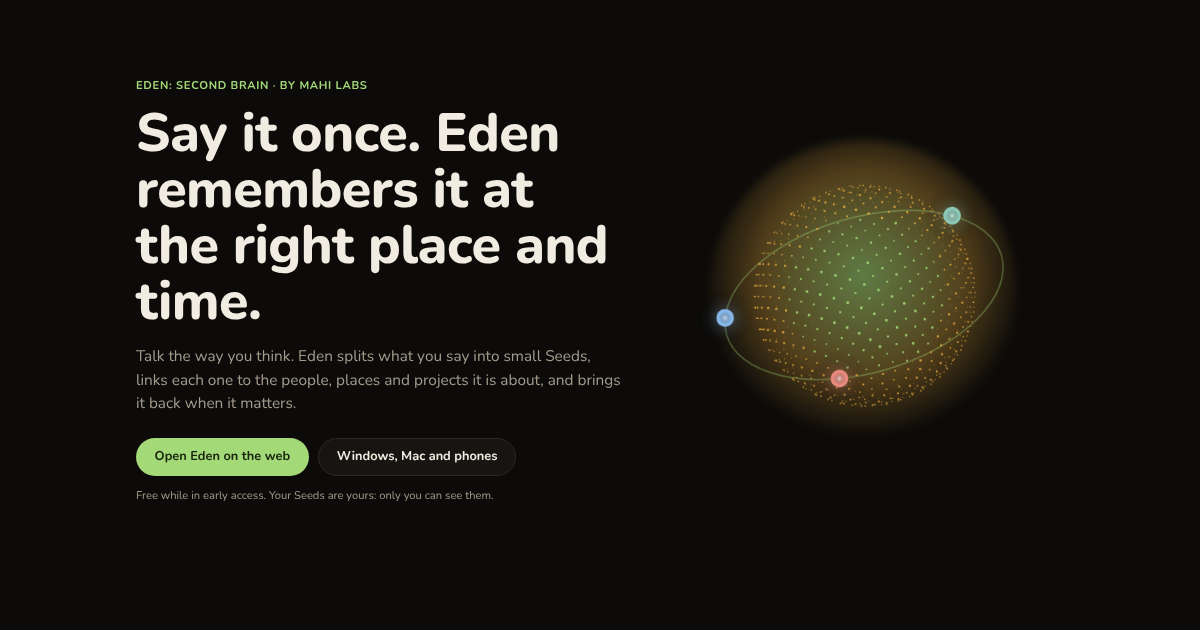
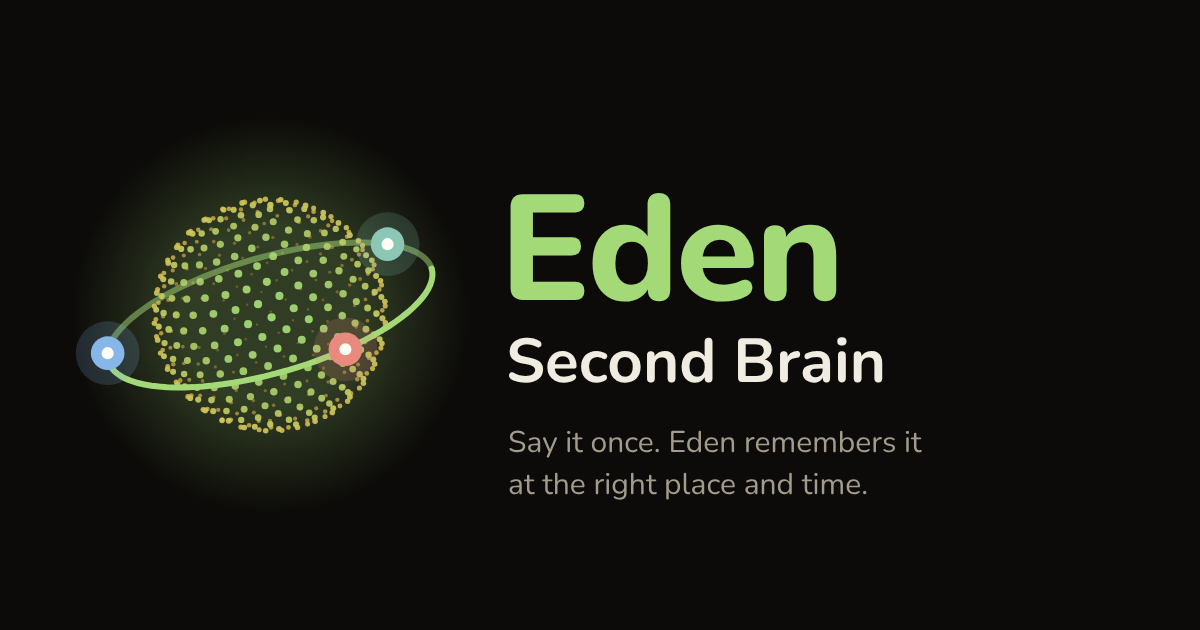
Publish Eden's public pages from Sandy360k/EDEN@4ae1498

Changed region(s): [[0.0617, 0.181, 0.8633, 0.7841], [0.1233, 0.7841, 0.4008, 0.8143], [0.1233, 0.1206, 0.3083, 0.1508]]

diff --git a/index.html b/index.html
@@ -26,6 +26,7 @@
     --bg: #F7F4EE; --surface: #FFFDF8; --surface2: #EFEAE0; --border: #E4DDD0; --text: #1F1B14; --muted: #6E665A;
     --accent: #3F7524; --on-accent: #FFFFFF; --gold: #C98A0E; --green: #4E8A2E;
     --work: #2F8F7A; --home: #C98A0E; --family: #C2553F; --health: #7A5FC4;
+    --glow-far: #C98A0E; --glow-near: #4E8A2E; --glow-ideas: #3B7FC4; --glow-work: #2F8F7A; --glow-family: #C2553F;
     --round: "Nunito", ui-rounded, "SF Pro Rounded", system-ui, sans-serif;
     --sans: var(--round);
     color-scheme: light dark;
@@ -35,6 +36,7 @@
       --bg: #0C0B09; --surface: #171512; --surface2: #221F1A; --border: #2C2821; --text: #F1ECE2; --muted: #A39B8C;
       --accent: #A3D977; --on-accent: #18240E; --gold: #F2B544; --green: #A3D977;
       --work: #8CC7B5; --home: #F2B544; --family: #E88A7D; --health: #B9A6E8;
+      --glow-far: #F2B544; --glow-near: #A3D977; --glow-ideas: #86B7E8; --glow-work: #8CC7B5; --glow-family: #E88A7D;
     }
   }
   * { box-sizing: border-box; }
@@ -48,8 +50,8 @@
 
   header { position: sticky; top: 0; z-index: 2; background: color-mix(in srgb, var(--bg) 88%, transparent); backdrop-filter: blur(10px); border-bottom: 1px solid color-mix(in srgb, var(--border) 60%, transparent); }
   .bar { display: flex; align-items: center; gap: 24px; min-height: 64px; }
-  .brand { display: flex; align-items: center; gap: 10px; font-weight: 800; font-size: 22px; color: var(--text); text-decoration: none; }
-  .mark { width: 28px; height: 28px; border-radius: 50%; background: radial-gradient(circle at 50% 42%, var(--green) 0 28%, var(--gold) 62%, transparent 72%); }
+  .brand { display: flex; align-items: center; gap: 8px; font-weight: 800; font-size: 22px; color: var(--text); text-decoration: none; }
+  .mark { width: 34px; height: 34px; flex: none; display: block; }
   nav { display: flex; gap: 20px; margin-left: auto; }
   nav a { color: var(--muted); text-decoration: none; font-size: 15px; font-weight: 600; }
   nav a:hover { color: var(--text); }
@@ -101,7 +103,7 @@
   .chip .dot { width: 8px; height: 8px; border: 0; background: currentColor; }
   .ping { display: flex; gap: 10px; align-items: flex-start; padding: 10px 12px; border-radius: 14px; background: var(--surface); border: 1px solid var(--border); font-size: 14px; }
   .ping b { display: block; font-size: 12px; color: var(--muted); font-weight: 600; }
-  .ping .mark { width: 22px; height: 22px; flex: none; }
+  .ping .mark { width: 26px; height: 26px; }
   @media (max-width: 960px) { .steps { grid-template-columns: repeat(2, 1fr); } .step:nth-child(2)::after { display: none; } }
   @media (max-width: 600px) { .steps { grid-template-columns: 1fr; } .step::after { top: auto; bottom: -13px; right: 50%; transform: translateX(50%) rotate(135deg); } .step:nth-child(2)::after { display: block; } }
 
@@ -161,7 +163,7 @@
 <body>
 <header>
   <div class="wrap bar">
-    <a class="brand" href="./" aria-label="Eden home"><span class="mark" aria-hidden="true"></span>Eden</a>
+    <a class="brand" href="./" aria-label="Eden home"><svg class="mark" viewBox="0 0 100 100" aria-hidden="true"><defs><radialGradient id="hsite" cx="50%" cy="50%" r="50%"><stop offset="0.45" stop-color="var(--glow-near)" stop-opacity="0.14"/><stop offset="1" stop-color="var(--glow-near)" stop-opacity="0"/></radialGradient><radialGradient id="wsite" cx="42%" cy="40%" r="62%"><stop offset="0" stop-color="var(--glow-near)"/><stop offset="1" stop-color="var(--glow-far)"/></radialGradient></defs><path d="M8.28 61.96 L8.08 60.92 L8.06 59.84 L8.22 58.71 L8.55 57.54 L9.07 56.35 L9.76 55.12 L10.62 53.88 L11.65 52.61 L12.84 51.34 L14.20 50.06 L15.70 48.78 L17.36 47.50 L19.15 46.24 L21.08 44.99 L23.13 43.76 L25.29 42.56 L27.56 41.39 L29.93 40.26 L32.38 39.17 L34.91 38.13 L37.50 37.14 L40.15 36.20 L42.84 35.32 L45.56 34.50 L48.29 33.76 L51.04 33.08 L53.78 32.47 L56.51 31.94 L59.20 31.48 L61.86 31.11 L64.47 30.81 L67.01 30.60 L69.48 30.47 L71.87 30.42 L74.17 30.46 L76.36 30.58 L78.44 30.79 L80.39 31.08 L82.22 31.44 L83.91 31.89 L85.45 32.42 L86.84 33.02 L88.08 33.69 L89.15 34.43 L90.05 35.24 L90.78 36.12 L91.34 37.05 L91.72 38.04" fill="none" stroke="var(--glow-near)" stroke-opacity="0.6" stroke-width="3.2" stroke-linecap="round"/><circle cx="50" cy="50" r="49.5" fill="url(#hsite)"/><circle cx="50" cy="50" r="31" fill="url(#wsite)" fill-opacity="0.14"/><circle cx="72.41" cy="59.09" r="1.67" fill="color-mix(in srgb, var(--glow-near) 38%, var(--glow-far))" fill-opacity="1.00"/><circle cx="38.73" cy="28.63" r="1.70" fill="color-mix(in srgb, var(--glow-near) 40%, var(--glow-far))" fill-opacity="1.00"/><circle cx="31.67" cy="34.32" r="1.72" fill="color-mix(in srgb, var(--glow-near) 42%, var(--glow-far))" fill-opacity="1.00"/><circle cx="58.48" cy="72.45" r="1.77" fill="color-mix(in srgb, var(--glow-near) 45%, var(--glow-far))" fill-opacity="1.00"/><circle cx="26.58" cy="54.69" r="1.80" fill="color-mix(in srgb, var(--glow-near) 46%, var(--glow-far))" fill-opacity="1.00"/><circle cx="28.12" cy="41.59" r="1.88" fill="color-mix(in srgb, var(--glow-near) 52%, var(--glow-far))" fill-opacity="1.00"/><circle cx="54.14" cy="27.06" r="1.90" fill="color-mix(in srgb, var(--glow-near) 53%, var(--glow-far))" fill-opacity="1.00"/><circle cx="70.59" cy="39.25" r="1.91" fill="color-mix(in srgb, var(--glow-near) 53%, var(--glow-far))" fill-opacity="1.00"/><circle cx="62.70" cy="30.59" r="1.91" fill="color-mix(in srgb, var(--glow-near) 54%, var(--glow-far))" fill-opacity="1.00"/><circle cx="45.12" cy="72.46" r="1.93" fill="color-mix(in srgb, var(--glow-near) 55%, var(--glow-far))" fill-opacity="1.00"/><circle cx="30.74" cy="62.07" r="1.96" fill="color-mix(in srgb, var(--glow-near) 57%, var(--glow-far))" fill-opacity="1.00"/><circle cx="72.67" cy="48.68" r="1.96" fill="color-mix(in srgb, var(--glow-near) 57%, var(--glow-far))" fill-opacity="1.00"/><circle cx="65.87" cy="66.17" r="1.97" fill="color-mix(in srgb, var(--glow-near) 58%, var(--glow-far))" fill-opacity="1.00"/><circle cx="42.41" cy="28.91" r="1.99" fill="color-mix(in srgb, var(--glow-near) 59%, var(--glow-far))" fill-opacity="1.00"/><circle cx="70.81" cy="57.90" r="2.00" fill="color-mix(in srgb, var(--glow-near) 60%, var(--glow-far))" fill-opacity="1.00"/><circle cx="50.00" cy="27.92" r="2.02" fill="color-mix(in srgb, var(--glow-near) 61%, var(--glow-far))" fill-opacity="1.00"/><circle cx="37.55" cy="68.19" r="2.02" fill="color-mix(in srgb, var(--glow-near) 61%, var(--glow-far))" fill-opacity="1.00"/><circle cx="55.19" cy="70.77" r="2.07" fill="color-mix(in srgb, var(--glow-near) 65%, var(--glow-far))" fill-opacity="1.00"/><circle cx="28.64" cy="49.36" r="2.07" fill="color-mix(in srgb, var(--glow-near) 65%, var(--glow-far))" fill-opacity="1.00"/><circle cx="34.67" cy="35.49" r="2.09" fill="color-mix(in srgb, var(--glow-near) 66%, var(--glow-far))" fill-opacity="1.00"/><circle cx="65.19" cy="36.94" r="2.15" fill="color-mix(in srgb, var(--glow-near) 71%, var(--glow-far))" fill-opacity="1.00"/><circle cx="56.54" cy="32.26" r="2.21" fill="color-mix(in srgb, var(--glow-near) 75%, var(--glow-far))" fill-opacity="1.00"/><circle cx="33.00" cy="56.73" r="2.23" fill="color-mix(in srgb, var(--glow-near) 77%, var(--glow-far))" fill-opacity="1.00"/><circle cx="67.69" cy="46.83" r="2.25" fill="color-mix(in srgb, var(--glow-near) 78%, var(--glow-far))" fill-opacity="1.00"/><circle cx="60.91" cy="64.27" r="2.25" fill="color-mix(in srgb, var(--glow-near) 78%, var(--glow-far))" fill-opacity="1.00"/><circle cx="48.23" cy="67.70" r="2.25" fill="color-mix(in srgb, var(--glow-near) 78%, var(--glow-far))" fill-opacity="1.00"/><circle cx="33.94" cy="43.03" r="2.26" fill="color-mix(in srgb, var(--glow-near) 79%, var(--glow-far))" fill-opacity="1.00"/><circle cx="42.44" cy="34.40" r="2.27" fill="color-mix(in srgb, var(--glow-near) 79%, var(--glow-far))" fill-opacity="1.00"/><circle cx="65.61" cy="56.11" r="2.29" fill="color-mix(in srgb, var(--glow-near) 81%, var(--glow-far))" fill-opacity="1.00"/><circle cx="40.11" cy="62.99" r="2.31" fill="color-mix(in srgb, var(--glow-near) 82%, var(--glow-far))" fill-opacity="1.00"/><circle cx="60.48" cy="43.54" r="2.41" fill="color-mix(in srgb, var(--glow-near) 90%, var(--glow-far))" fill-opacity="1.00"/><circle cx="53.18" cy="38.20" r="2.41" fill="color-mix(in srgb, var(--glow-near) 91%, var(--glow-far))" fill-opacity="1.00"/><circle cx="37.86" cy="50.29" r="2.42" fill="color-mix(in srgb, var(--glow-near) 91%, var(--glow-far))" fill-opacity="1.00"/><circle cx="53.29" cy="61.15" r="2.43" fill="color-mix(in srgb, var(--glow-near) 91%, var(--glow-far))" fill-opacity="1.00"/><circle cx="43.90" cy="42.06" r="2.46" fill="color-mix(in srgb, var(--glow-near) 94%, var(--glow-far))" fill-opacity="1.00"/><circle cx="58.06" cy="53.05" r="2.48" fill="color-mix(in srgb, var(--glow-near) 95%, var(--glow-far))" fill-opacity="1.00"/><circle cx="44.93" cy="56.47" r="2.48" fill="color-mix(in srgb, var(--glow-near) 96%, var(--glow-far))" fill-opacity="1.00"/><circle cx="50.06" cy="48.37" r="2.53" fill="color-mix(in srgb, var(--glow-near) 100%, var(--glow-far))" fill-opacity="1.00"/><path d="M91.72 38.04 L91.92 39.08 L91.94 40.16 L91.78 41.29 L91.45 42.46 L90.93 43.65 L90.24 44.88 L89.38 46.12 L88.35 47.39 L87.16 48.66 L85.80 49.94 L84.30 51.22 L82.64 52.50 L80.85 53.76 L78.92 55.01 L76.87 56.24 L74.71 57.44 L72.44 58.61 L70.07 59.74 L67.62 60.83 L65.09 61.87 L62.50 62.86 L59.85 63.80 L57.16 64.68 L54.44 65.50 L51.71 66.24 L48.96 66.92 L46.22 67.53 L43.49 68.06 L40.80 68.52 L38.14 68.89 L35.53 69.19 L32.99 69.40 L30.52 69.53 L28.13 69.58 L25.83 69.54 L23.64 69.42 L21.56 69.21 L19.61 68.92 L17.78 68.56 L16.09 68.11 L14.55 67.58 L13.16 66.98 L11.92 66.31 L10.85 65.57 L9.95 64.76 L9.22 63.88 L8.66 62.95 L8.28 61.96" fill="none" stroke="var(--glow-near)" stroke-width="3.2" stroke-linecap="round"/><circle cx="8.07" cy="59.69" r="6.2" fill="var(--glow-ideas)"/><circle cx="80.14" cy="31.03" r="6.2" fill="var(--glow-work)"/><circle cx="69.75" cy="59.89" r="6.2" fill="var(--glow-family)"/></svg>Eden</a>
     <nav aria-label="Sections"><a href="#how">How it works</a><a href="#get">Get Eden</a><a href="#privacy">Privacy</a><a href="support.html">Support</a></nav>
     <a class="btn primary small" href="https://app.eden360.in">Open Eden</a>
   </div>
@@ -257,8 +259,8 @@
         </li>
         <li class="step">
           <div class="art">
-            <div class="ping"><span class="mark" aria-hidden="true"></span><div><b>Tonight, 8 pm</b>Send Ravi the site photos</div></div>
-            <div class="ping"><span class="mark" aria-hidden="true"></span><div><b>Monday</b>Meera’s birthday</div></div>
+            <div class="ping"><svg class="mark" viewBox="0 0 100 100" aria-hidden="true"><defs><radialGradient id="hsite" cx="50%" cy="50%" r="50%"><stop offset="0.45" stop-color="var(--glow-near)" stop-opacity="0.14"/><stop offset="1" stop-color="var(--glow-near)" stop-opacity="0"/></radialGradient><radialGradient id="wsite" cx="42%" cy="40%" r="62%"><stop offset="0" stop-color="var(--glow-near)"/><stop offset="1" stop-color="var(--glow-far)"/></radialGradient></defs><path d="M8.28 61.96 L8.08 60.92 L8.06 59.84 L8.22 58.71 L8.55 57.54 L9.07 56.35 L9.76 55.12 L10.62 53.88 L11.65 52.61 L12.84 51.34 L14.20 50.06 L15.70 48.78 L17.36 47.50 L19.15 46.24 L21.08 44.99 L23.13 43.76 L25.29 42.56 L27.56 41.39 L29.93 40.26 L32.38 39.17 L34.91 38.13 L37.50 37.14 L40.15 36.20 L42.84 35.32 L45.56 34.50 L48.29 33.76 L51.04 33.08 L53.78 32.47 L56.51 31.94 L59.20 31.48 L61.86 31.11 L64.47 30.81 L67.01 30.60 L69.48 30.47 L71.87 30.42 L74.17 30.46 L76.36 30.58 L78.44 30.79 L80.39 31.08 L82.22 31.44 L83.91 31.89 L85.45 32.42 L86.84 33.02 L88.08 33.69 L89.15 34.43 L90.05 35.24 L90.78 36.12 L91.34 37.05 L91.72 38.04" fill="none" stroke="var(--glow-near)" stroke-opacity="0.6" stroke-width="3.2" stroke-linecap="round"/><circle cx="50" cy="50" r="49.5" fill="url(#hsite)"/><circle cx="50" cy="50" r="31" fill="url(#wsite)" fill-opacity="0.14"/><circle cx="72.41" cy="59.09" r="1.67" fill="color-mix(in srgb, var(--glow-near) 38%, var(--glow-far))" fill-opacity="1.00"/><circle cx="38.73" cy="28.63" r="1.70" fill="color-mix(in srgb, var(--glow-near) 40%, var(--glow-far))" fill-opacity="1.00"/><circle cx="31.67" cy="34.32" r="1.72" fill="color-mix(in srgb, var(--glow-near) 42%, var(--glow-far))" fill-opacity="1.00"/><circle cx="58.48" cy="72.45" r="1.77" fill="color-mix(in srgb, var(--glow-near) 45%, var(--glow-far))" fill-opacity="1.00"/><circle cx="26.58" cy="54.69" r="1.80" fill="color-mix(in srgb, var(--glow-near) 46%, var(--glow-far))" fill-opacity="1.00"/><circle cx="28.12" cy="41.59" r="1.88" fill="color-mix(in srgb, var(--glow-near) 52%, var(--glow-far))" fill-opacity="1.00"/><circle cx="54.14" cy="27.06" r="1.90" fill="color-mix(in srgb, var(--glow-near) 53%, var(--glow-far))" fill-opacity="1.00"/><circle cx="70.59" cy="39.25" r="1.91" fill="color-mix(in srgb, var(--glow-near) 53%, var(--glow-far))" fill-opacity="1.00"/><circle cx="62.70" cy="30.59" r="1.91" fill="color-mix(in srgb, var(--glow-near) 54%, var(--glow-far))" fill-opacity="1.00"/><circle cx="45.12" cy="72.46" r="1.93" fill="color-mix(in srgb, var(--glow-near) 55%, var(--glow-far))" fill-opacity="1.00"/><circle cx="30.74" cy="62.07" r="1.96" fill="color-mix(in srgb, var(--glow-near) 57%, var(--glow-far))" fill-opacity="1.00"/><circle cx="72.67" cy="48.68" r="1.96" fill="color-mix(in srgb, var(--glow-near) 57%, var(--glow-far))" fill-opacity="1.00"/><circle cx="65.87" cy="66.17" r="1.97" fill="color-mix(in srgb, var(--glow-near) 58%, var(--glow-far))" fill-opacity="1.00"/><circle cx="42.41" cy="28.91" r="1.99" fill="color-mix(in srgb, var(--glow-near) 59%, var(--glow-far))" fill-opacity="1.00"/><circle cx="70.81" cy="57.90" r="2.00" fill="color-mix(in srgb, var(--glow-near) 60%, var(--glow-far))" fill-opacity="1.00"/><circle cx="50.00" cy="27.92" r="2.02" fill="color-mix(in srgb, var(--glow-near) 61%, var(--glow-far))" fill-opacity="1.00"/><circle cx="37.55" cy="68.19" r="2.02" fill="color-mix(in srgb, var(--glow-near) 61%, var(--glow-far))" fill-opacity="1.00"/><circle cx="55.19" cy="70.77" r="2.07" fill="color-mix(in srgb, var(--glow-near) 65%, var(--glow-far))" fill-opacity="1.00"/><circle cx="28.64" cy="49.36" r="2.07" fill="color-mix(in srgb, var(--glow-near) 65%, var(--glow-far))" fill-opacity="1.00"/><circle cx="34.67" cy="35.49" r="2.09" fill="color-mix(in srgb, var(--glow-near) 66%, var(--glow-far))" fill-opacity="1.00"/><circle cx="65.19" cy="36.94" r="2.15" fill="color-mix(in srgb, var(--glow-near) 71%, var(--glow-far))" fill-opacity="1.00"/><circle cx="56.54" cy="32.26" r="2.21" fill="color-mix(in srgb, var(--glow-near) 75%, var(--glow-far))" fill-opacity="1.00"/><circle cx="33.00" cy="56.73" r="2.23" fill="color-mix(in srgb, var(--glow-near) 77%, var(--glow-far))" fill-opacity="1.00"/><circle cx="67.69" cy="46.83" r="2.25" fill="color-mix(in srgb, var(--glow-near) 78%, var(--glow-far))" fill-opacity="1.00"/><circle cx="60.91" cy="64.27" r="2.25" fill="color-mix(in srgb, var(--glow-near) 78%, var(--glow-far))" fill-opacity="1.00"/><circle cx="48.23" cy="67.70" r="2.25" fill="color-mix(in srgb, var(--glow-near) 78%, var(--glow-far))" fill-opacity="1.00"/><circle cx="33.94" cy="43.03" r="2.26" fill="color-mix(in srgb, var(--glow-near) 79%, var(--glow-far))" fill-opacity="1.00"/><circle cx="42.44" cy="34.40" r="2.27" fill="color-mix(in srgb, var(--glow-near) 79%, var(--glow-far))" fill-opacity="1.00"/><circle cx="65.61" cy="56.11" r="2.29" fill="color-mix(in srgb, var(--glow-near) 81%, var(--glow-far))" fill-opacity="1.00"/><circle cx="40.11" cy="62.99" r="2.31" fill="color-mix(in srgb, var(--glow-near) 82%, var(--glow-far))" fill-opacity="1.00"/><circle cx="60.48" cy="43.54" r="2.41" fill="color-mix(in srgb, var(--glow-near) 90%, var(--glow-far))" fill-opacity="1.00"/><circle cx="53.18" cy="38.20" r="2.41" fill="color-mix(in srgb, var(--glow-near) 91%, var(--glow-far))" fill-opacity="1.00"/><circle cx="37.86" cy="50.29" r="2.42" fill="color-mix(in srgb, var(--glow-near) 91%, var(--glow-far))" fill-opacity="1.00"/><circle cx="53.29" cy="61.15" r="2.43" fill="color-mix(in srgb, var(--glow-near) 91%, var(--glow-far))" fill-opacity="1.00"/><circle cx="43.90" cy="42.06" r="2.46" fill="color-mix(in srgb, var(--glow-near) 94%, var(--glow-far))" fill-opacity="1.00"/><circle cx="58.06" cy="53.05" r="2.48" fill="color-mix(in srgb, var(--glow-near) 95%, var(--glow-far))" fill-opacity="1.00"/><circle cx="44.93" cy="56.47" r="2.48" fill="color-mix(in srgb, var(--glow-near) 96%, var(--glow-far))" fill-opacity="1.00"/><circle cx="50.06" cy="48.37" r="2.53" fill="color-mix(in srgb, var(--glow-near) 100%, var(--glow-far))" fill-opacity="1.00"/><path d="M91.72 38.04 L91.92 39.08 L91.94 40.16 L91.78 41.29 L91.45 42.46 L90.93 43.65 L90.24 44.88 L89.38 46.12 L88.35 47.39 L87.16 48.66 L85.80 49.94 L84.30 51.22 L82.64 52.50 L80.85 53.76 L78.92 55.01 L76.87 56.24 L74.71 57.44 L72.44 58.61 L70.07 59.74 L67.62 60.83 L65.09 61.87 L62.50 62.86 L59.85 63.80 L57.16 64.68 L54.44 65.50 L51.71 66.24 L48.96 66.92 L46.22 67.53 L43.49 68.06 L40.80 68.52 L38.14 68.89 L35.53 69.19 L32.99 69.40 L30.52 69.53 L28.13 69.58 L25.83 69.54 L23.64 69.42 L21.56 69.21 L19.61 68.92 L17.78 68.56 L16.09 68.11 L14.55 67.58 L13.16 66.98 L11.92 66.31 L10.85 65.57 L9.95 64.76 L9.22 63.88 L8.66 62.95 L8.28 61.96" fill="none" stroke="var(--glow-near)" stroke-width="3.2" stroke-linecap="round"/><circle cx="8.07" cy="59.69" r="6.2" fill="var(--glow-ideas)"/><circle cx="80.14" cy="31.03" r="6.2" fill="var(--glow-work)"/><circle cx="69.75" cy="59.89" r="6.2" fill="var(--glow-family)"/></svg><div><b>Tonight, 8 pm</b>Send Ravi the site photos</div></div>
+            <div class="ping"><svg class="mark" viewBox="0 0 100 100" aria-hidden="true"><defs><radialGradient id="hsite" cx="50%" cy="50%" r="50%"><stop offset="0.45" stop-color="var(--glow-near)" stop-opacity="0.14"/><stop offset="1" stop-color="var(--glow-near)" stop-opacity="0"/></radialGradient><radialGradient id="wsite" cx="42%" cy="40%" r="62%"><stop offset="0" stop-color="var(--glow-near)"/><stop offset="1" stop-color="var(--glow-far)"/></radialGradient></defs><path d="M8.28 61.96 L8.08 60.92 L8.06 59.84 L8.22 58.71 L8.55 57.54 L9.07 56.35 L9.76 55.12 L10.62 53.88 L11.65 52.61 L12.84 51.34 L14.20 50.06 L15.70 48.78 L17.36 47.50 L19.15 46.24 L21.08 44.99 L23.13 43.76 L25.29 42.56 L27.56 41.39 L29.93 40.26 L32.38 39.17 L34.91 38.13 L37.50 37.14 L40.15 36.20 L42.84 35.32 L45.56 34.50 L48.29 33.76 L51.04 33.08 L53.78 32.47 L56.51 31.94 L59.20 31.48 L61.86 31.11 L64.47 30.81 L67.01 30.60 L69.48 30.47 L71.87 30.42 L74.17 30.46 L76.36 30.58 L78.44 30.79 L80.39 31.08 L82.22 31.44 L83.91 31.89 L85.45 32.42 L86.84 33.02 L88.08 33.69 L89.15 34.43 L90.05 35.24 L90.78 36.12 L91.34 37.05 L91.72 38.04" fill="none" stroke="var(--glow-near)" stroke-opacity="0.6" stroke-width="3.2" stroke-linecap="round"/><circle cx="50" cy="50" r="49.5" fill="url(#hsite)"/><circle cx="50" cy="50" r="31" fill="url(#wsite)" fill-opacity="0.14"/><circle cx="72.41" cy="59.09" r="1.67" fill="color-mix(in srgb, var(--glow-near) 38%, var(--glow-far))" fill-opacity="1.00"/><circle cx="38.73" cy="28.63" r="1.70" fill="color-mix(in srgb, var(--glow-near) 40%, var(--glow-far))" fill-opacity="1.00"/><circle cx="31.67" cy="34.32" r="1.72" fill="color-mix(in srgb, var(--glow-near) 42%, var(--glow-far))" fill-opacity="1.00"/><circle cx="58.48" cy="72.45" r="1.77" fill="color-mix(in srgb, var(--glow-near) 45%, var(--glow-far))" fill-opacity="1.00"/><circle cx="26.58" cy="54.69" r="1.80" fill="color-mix(in srgb, var(--glow-near) 46%, var(--glow-far))" fill-opacity="1.00"/><circle cx="28.12" cy="41.59" r="1.88" fill="color-mix(in srgb, var(--glow-near) 52%, var(--glow-far))" fill-opacity="1.00"/><circle cx="54.14" cy="27.06" r="1.90" fill="color-mix(in srgb, var(--glow-near) 53%, var(--glow-far))" fill-opacity="1.00"/><circle cx="70.59" cy="39.25" r="1.91" fill="color-mix(in srgb, var(--glow-near) 53%, var(--glow-far))" fill-opacity="1.00"/><circle cx="62.70" cy="30.59" r="1.91" fill="color-mix(in srgb, var(--glow-near) 54%, var(--glow-far))" fill-opacity="1.00"/><circle cx="45.12" cy="72.46" r="1.93" fill="color-mix(in srgb, var(--glow-near) 55%, var(--glow-far))" fill-opacity="1.00"/><circle cx="30.74" cy="62.07" r="1.96" fill="color-mix(in srgb, var(--glow-near) 57%, var(--glow-far))" fill-opacity="1.00"/><circle cx="72.67" cy="48.68" r="1.96" fill="color-mix(in srgb, var(--glow-near) 57%, var(--glow-far))" fill-opacity="1.00"/><circle cx="65.87" cy="66.17" r="1.97" fill="color-mix(in srgb, var(--glow-near) 58%, var(--glow-far))" fill-opacity="1.00"/><circle cx="42.41" cy="28.91" r="1.99" fill="color-mix(in srgb, var(--glow-near) 59%, var(--glow-far))" fill-opacity="1.00"/><circle cx="70.81" cy="57.90" r="2.00" fill="color-mix(in srgb, var(--glow-near) 60%, var(--glow-far))" fill-opacity="1.00"/><circle cx="50.00" cy="27.92" r="2.02" fill="color-mix(in srgb, var(--glow-near) 61%, var(--glow-far))" fill-opacity="1.00"/><circle cx="37.55" cy="68.19" r="2.02" fill="color-mix(in srgb, var(--glow-near) 61%, var(--glow-far))" fill-opacity="1.00"/><circle cx="55.19" cy="70.77" r="2.07" fill="color-mix(in srgb, var(--glow-near) 65%, var(--glow-far))" fill-opacity="1.00"/><circle cx="28.64" cy="49.36" r="2.07" fill="color-mix(in srgb, var(--glow-near) 65%, var(--glow-far))" fill-opacity="1.00"/><circle cx="34.67" cy="35.49" r="2.09" fill="color-mix(in srgb, var(--glow-near) 66%, var(--glow-far))" fill-opacity="1.00"/><circle cx="65.19" cy="36.94" r="2.15" fill="color-mix(in srgb, var(--glow-near) 71%, var(--glow-far))" fill-opacity="1.00"/><circle cx="56.54" cy="32.26" r="2.21" fill="color-mix(in srgb, var(--glow-near) 75%, var(--glow-far))" fill-opacity="1.00"/><circle cx="33.00" cy="56.73" r="2.23" fill="color-mix(in srgb, var(--glow-near) 77%, var(--glow-far))" fill-opacity="1.00"/><circle cx="67.69" cy="46.83" r="2.25" fill="color-mix(in srgb, var(--glow-near) 78%, var(--glow-far))" fill-opacity="1.00"/><circle cx="60.91" cy="64.27" r="2.25" fill="color-mix(in srgb, var(--glow-near) 78%, var(--glow-far))" fill-opacity="1.00"/><circle cx="48.23" cy="67.70" r="2.25" fill="color-mix(in srgb, var(--glow-near) 78%, var(--glow-far))" fill-opacity="1.00"/><circle cx="33.94" cy="43.03" r="2.26" fill="color-mix(in srgb, var(--glow-near) 79%, var(--glow-far))" fill-opacity="1.00"/><circle cx="42.44" cy="34.40" r="2.27" fill="color-mix(in srgb, var(--glow-near) 79%, var(--glow-far))" fill-opacity="1.00"/><circle cx="65.61" cy="56.11" r="2.29" fill="color-mix(in srgb, var(--glow-near) 81%, var(--glow-far))" fill-opacity="1.00"/><circle cx="40.11" cy="62.99" r="2.31" fill="color-mix(in srgb, var(--glow-near) 82%, var(--glow-far))" fill-opacity="1.00"/><circle cx="60.48" cy="43.54" r="2.41" fill="color-mix(in srgb, var(--glow-near) 90%, var(--glow-far))" fill-opacity="1.00"/><circle cx="53.18" cy="38.20" r="2.41" fill="color-mix(in srgb, var(--glow-near) 91%, var(--glow-far))" fill-opacity="1.00"/><circle cx="37.86" cy="50.29" r="2.42" fill="color-mix(in srgb, var(--glow-near) 91%, var(--glow-far))" fill-opacity="1.00"/><circle cx="53.29" cy="61.15" r="2.43" fill="color-mix(in srgb, var(--glow-near) 91%, var(--glow-far))" fill-opacity="1.00"/><circle cx="43.90" cy="42.06" r="2.46" fill="color-mix(in srgb, var(--glow-near) 94%, var(--glow-far))" fill-opacity="1.00"/><circle cx="58.06" cy="53.05" r="2.48" fill="color-mix(in srgb, var(--glow-near) 95%, var(--glow-far))" fill-opacity="1.00"/><circle cx="44.93" cy="56.47" r="2.48" fill="color-mix(in srgb, var(--glow-near) 96%, var(--glow-far))" fill-opacity="1.00"/><circle cx="50.06" cy="48.37" r="2.53" fill="color-mix(in srgb, var(--glow-near) 100%, var(--glow-far))" fill-opacity="1.00"/><path d="M91.72 38.04 L91.92 39.08 L91.94 40.16 L91.78 41.29 L91.45 42.46 L90.93 43.65 L90.24 44.88 L89.38 46.12 L88.35 47.39 L87.16 48.66 L85.80 49.94 L84.30 51.22 L82.64 52.50 L80.85 53.76 L78.92 55.01 L76.87 56.24 L74.71 57.44 L72.44 58.61 L70.07 59.74 L67.62 60.83 L65.09 61.87 L62.50 62.86 L59.85 63.80 L57.16 64.68 L54.44 65.50 L51.71 66.24 L48.96 66.92 L46.22 67.53 L43.49 68.06 L40.80 68.52 L38.14 68.89 L35.53 69.19 L32.99 69.40 L30.52 69.53 L28.13 69.58 L25.83 69.54 L23.64 69.42 L21.56 69.21 L19.61 68.92 L17.78 68.56 L16.09 68.11 L14.55 67.58 L13.16 66.98 L11.92 66.31 L10.85 65.57 L9.95 64.76 L9.22 63.88 L8.66 62.95 L8.28 61.96" fill="none" stroke="var(--glow-near)" stroke-width="3.2" stroke-linecap="round"/><circle cx="8.07" cy="59.69" r="6.2" fill="var(--glow-ideas)"/><circle cx="80.14" cy="31.03" r="6.2" fill="var(--glow-work)"/><circle cx="69.75" cy="59.89" r="6.2" fill="var(--glow-family)"/></svg><div><b>Monday</b>Meera’s birthday</div></div>
           </div>
           <h3>Back at the right moment</h3>
           <p>At the right time, or when you arrive at the right place, Eden brings it back. Nothing to dig for.</p>
